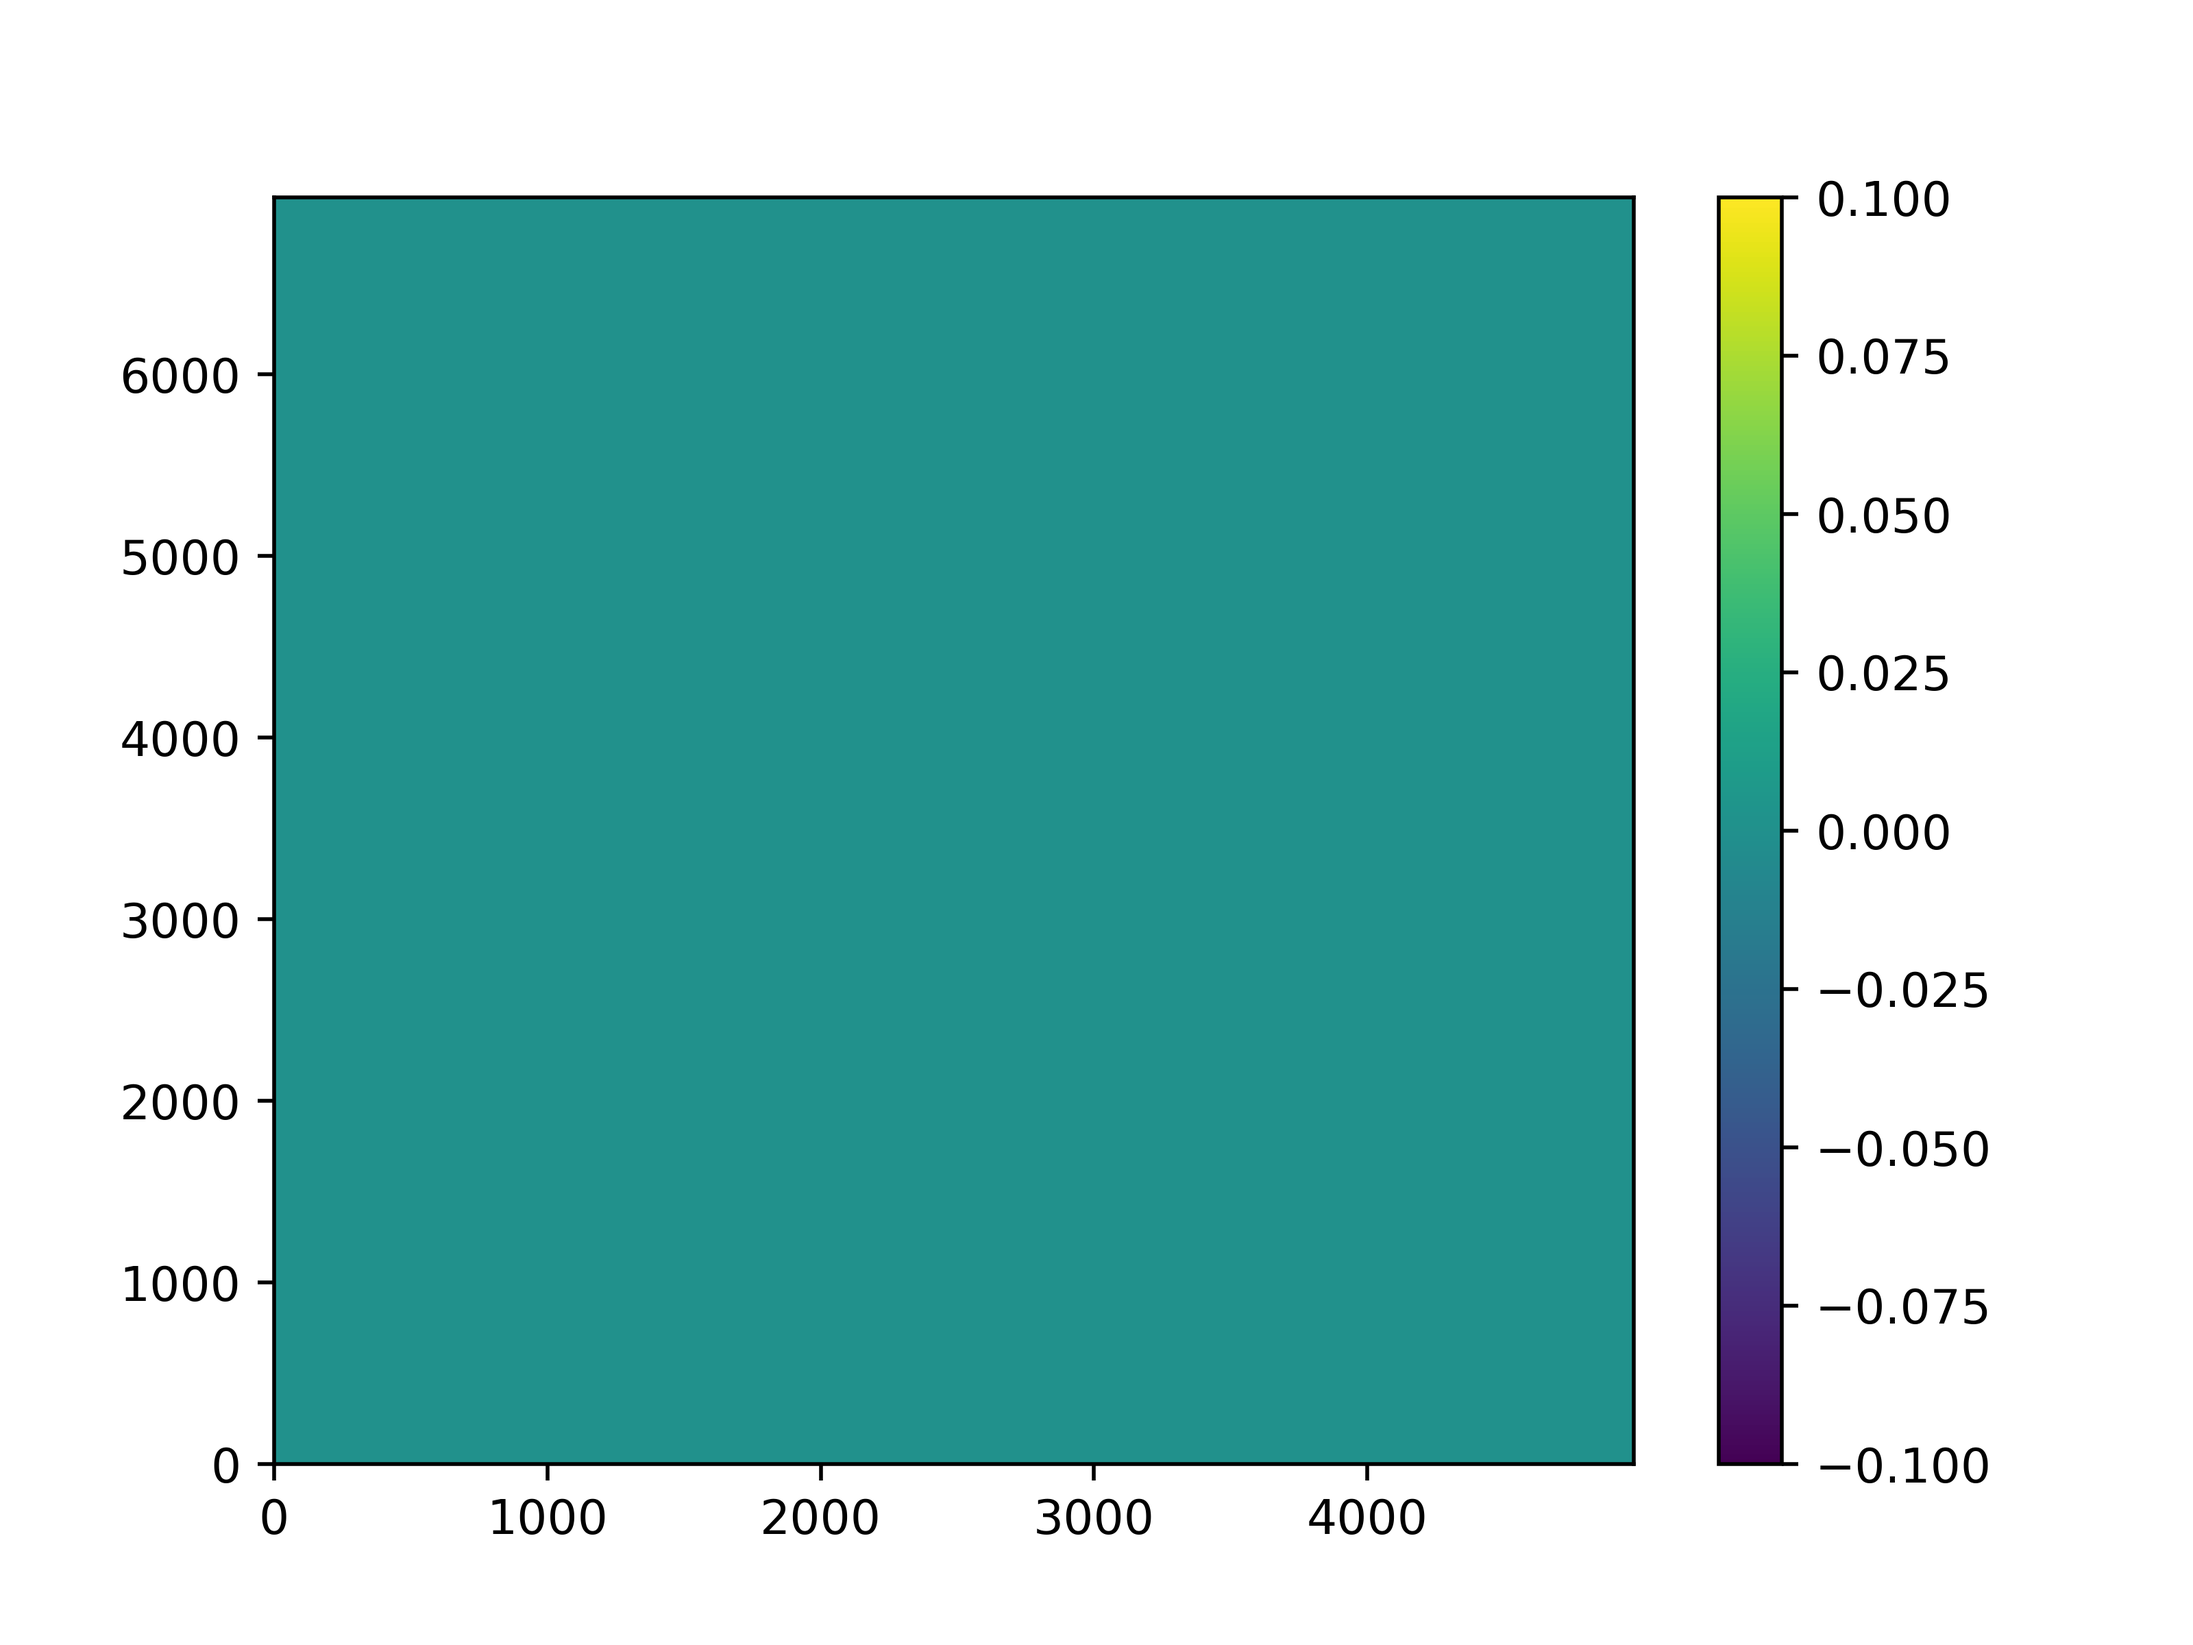
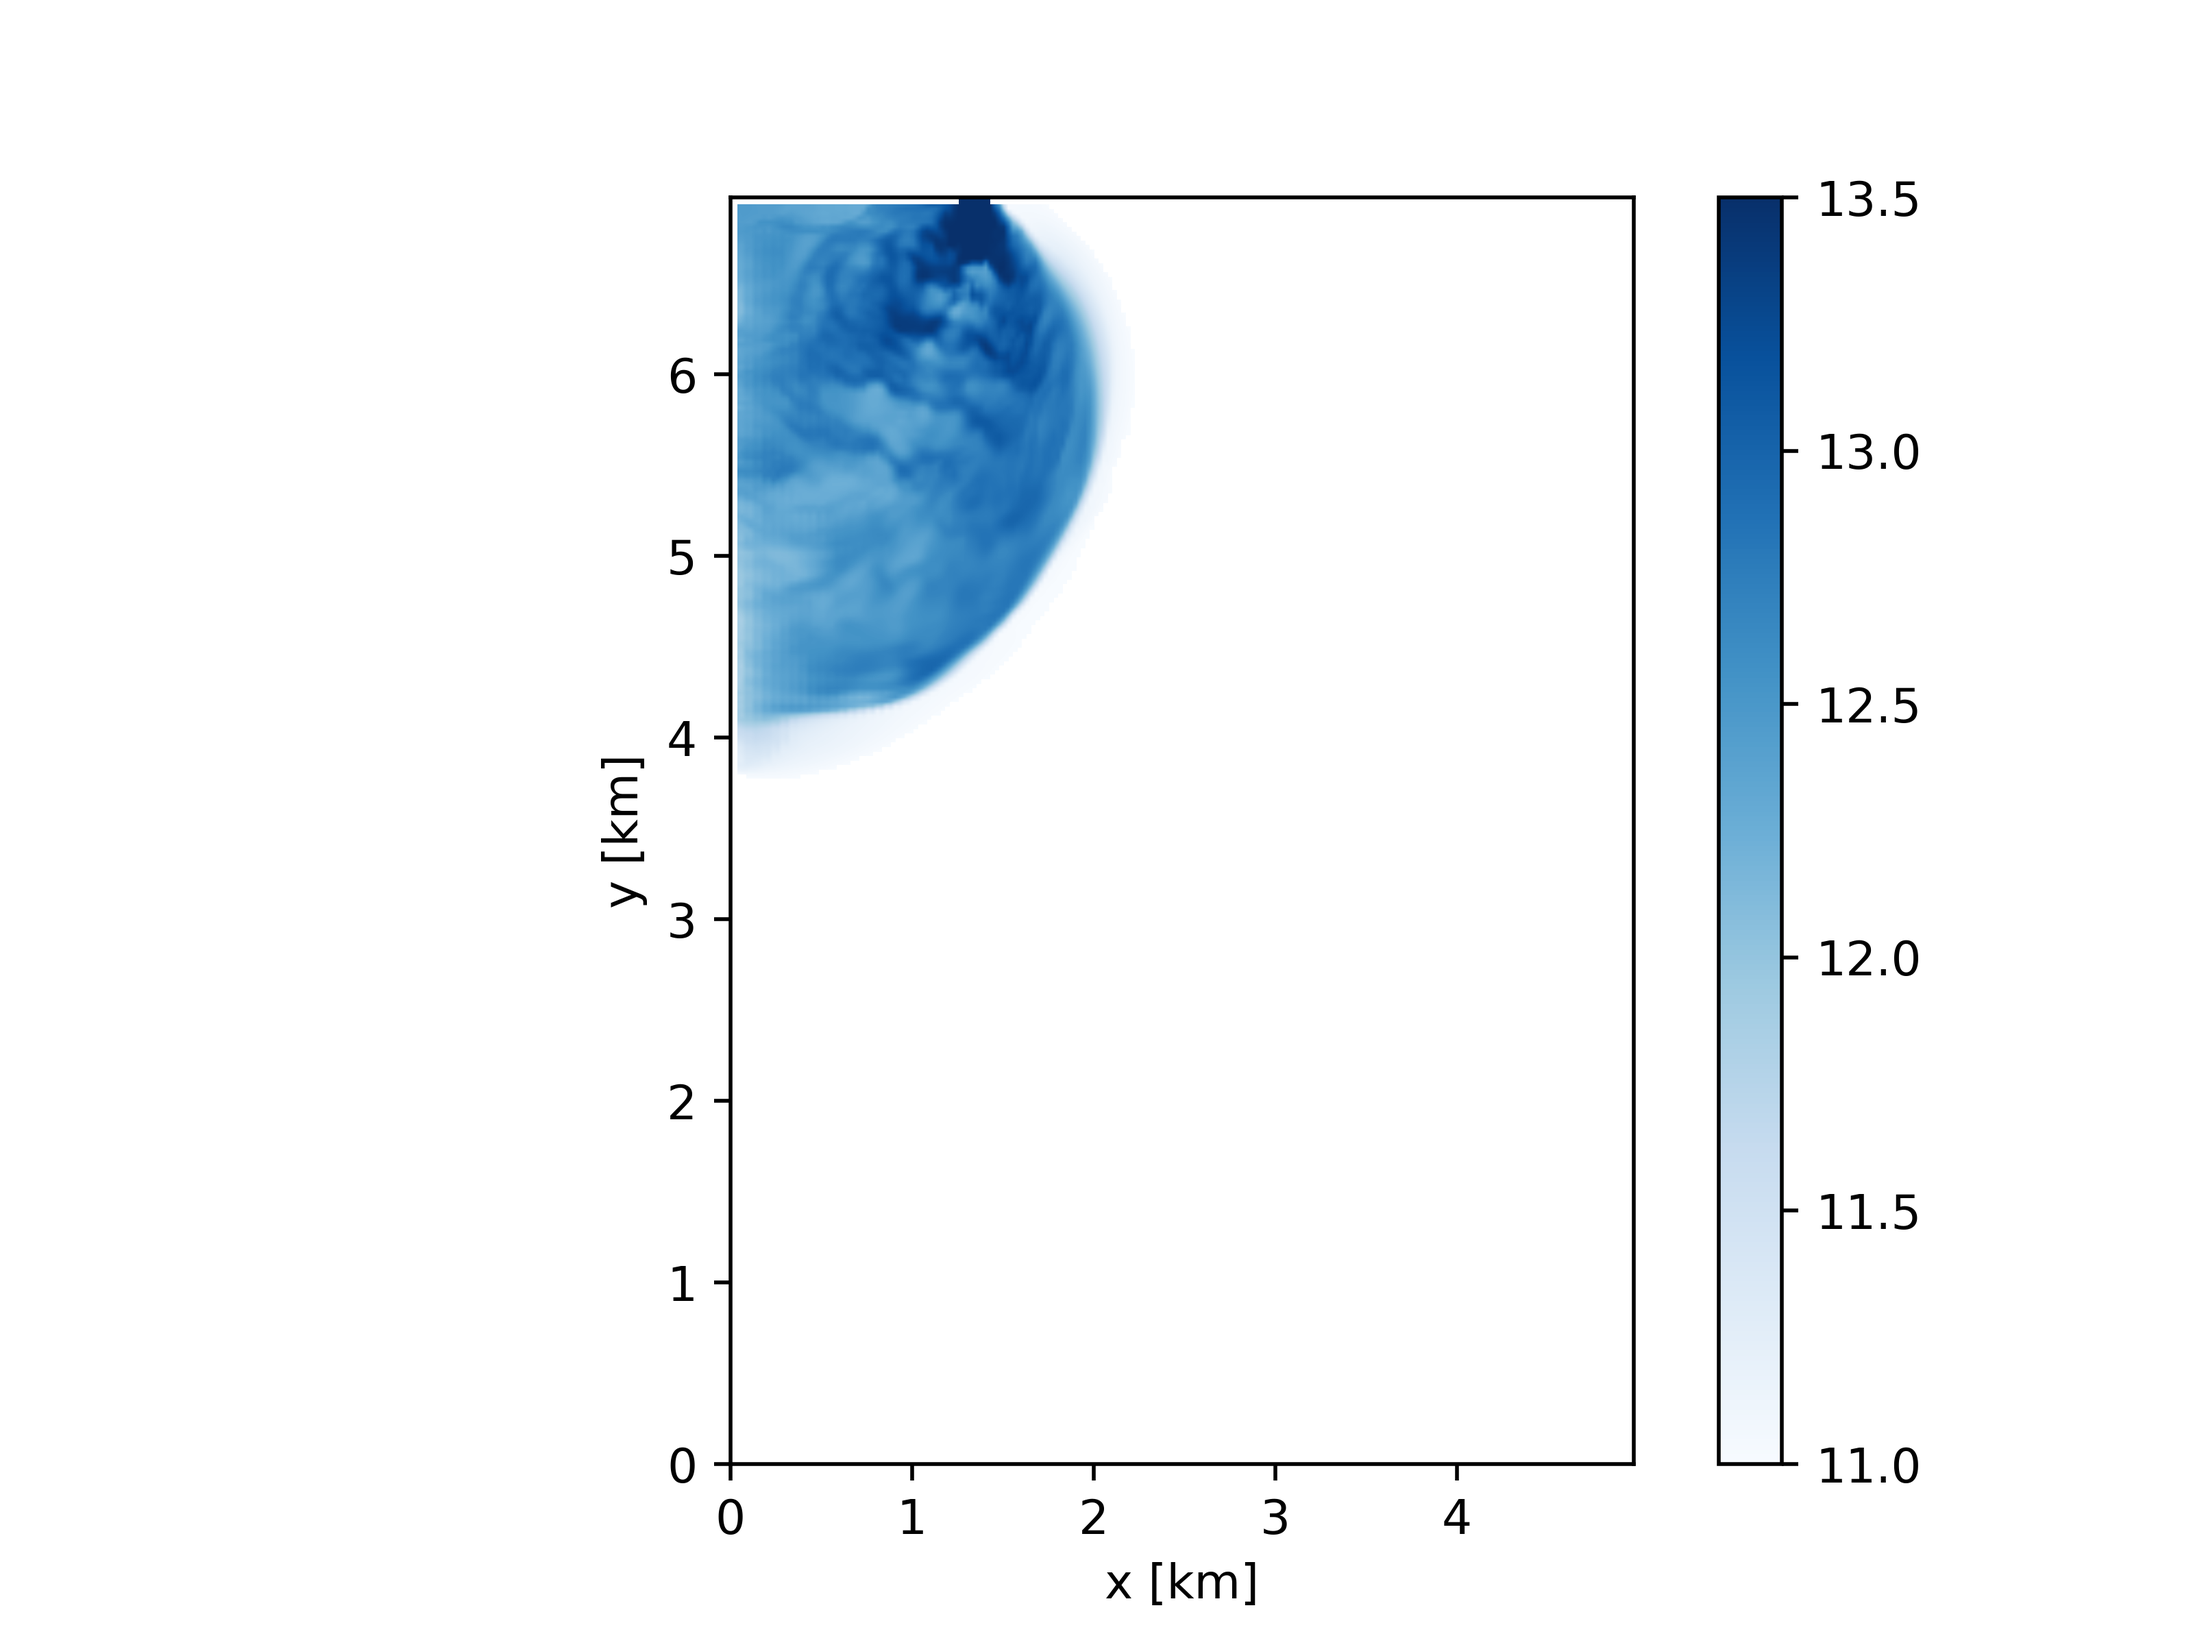
Finish vis.py

diff --git a/python/vis.py b/python/vis.py
@@ -1,42 +1,68 @@
+"""
+    vis.py
+
+    Python script for visualizing MIT gcm model output.
+
+    Currently set to create pseudo-color plot of surface temperature for
+    a single netCDF4 input file
+
+
+    Takes the input .nc file as its only command line argument
+"""
+
+
 import argparse
 
 import netCDF4
 import numpy as np
 from matplotlib import pyplot as plt
 
-class MITgcmNC:
-	def __init__(self, nc4file):
-		self.nc4 = netCDF4.Dataset(nc4file, 'r')
+def surf_2d_slice(data):
+    """Plots a pseudo-color plot of surface temperature for the given data.
 
-	def surf_2d_slice(self):
-		X = np.array(self.nc4['x'])
-		Y = np.array(self.nc4['y'])
-		Z = np.array(self.nc4['z'])
+    Input:
+        *   data: a netCDF4 Dataset
 
-		Xgrid, Ygrid = np.meshgrid(X,Y)
-		zlevel = Z[0]
+    Output:
+        *   Saves png pseudocolor plot of surface temperature as MITgcmpyvis.png
+    """
+    X = np.array(data['x'])
+    Y = np.array(data['y'])
+    Z = np.array(data['z'])
 
-		Tslice = np.array(self.nc4['T'][0,:, :])
+    Xgrid, Ygrid = np.meshgrid(X,Y)
+    zlevel = Z[0]
 
-		fig, ax = plt.subplots()
+    Tslice = np.array(data['T'][0,:, :])
 
-		pcolor = ax.pcolormesh(Xgrid, Ygrid, Tslice)
+    fig, ax = plt.subplots()
 
-		fig.colorbar(pcolor)
+    Tslice = np.ma.masked_less_equal(Tslice, 11.001)
+    pcolor = ax.imshow(Tslice, vmin = 11, vmax = 13.5,
+                interpolation = 'bilinear', origin = 'lower', cmap = 'Blues',
+                extent = (X[0]/1000., X[-1]/1000., Y[0]/1000., Y[-1]/1000.))
 
-		fig.savefig('MITgcmpyvis.png',dpi = 500)
+    ax.set_xlabel('x [km]')
+    ax.set_ylabel('y [km]')
+
+
+    fig.colorbar(pcolor)
+
+    fig.savefig('MITgcmpyvis.png',dpi = 500)
 
 
 def main():
-	parser = argparse.ArgumentParser()
-	parser.add_argument("file",help = "netCDF4 file to visualize")
-	args = parser.parse_args()
+    """Setup command line interface, open file, and call plot functions"""
+    parser = argparse.ArgumentParser()
+    parser.add_argument("file",help = "netCDF4 file to visualize")
+    args = parser.parse_args()
 
-	print("Visualizing file %s" % args.file)
+    print("Visualizing file %s" % args.file)
 
-	data = MITgcmNC(args.file)
+    # open data in read mode
+    data = netCDF4.Dataset(args.file, 'r')
 
-	data.surf_2d_slice()
+    surf_2d_slice(data)
 
 if __name__== "__main__":
-	main()
+    main()
